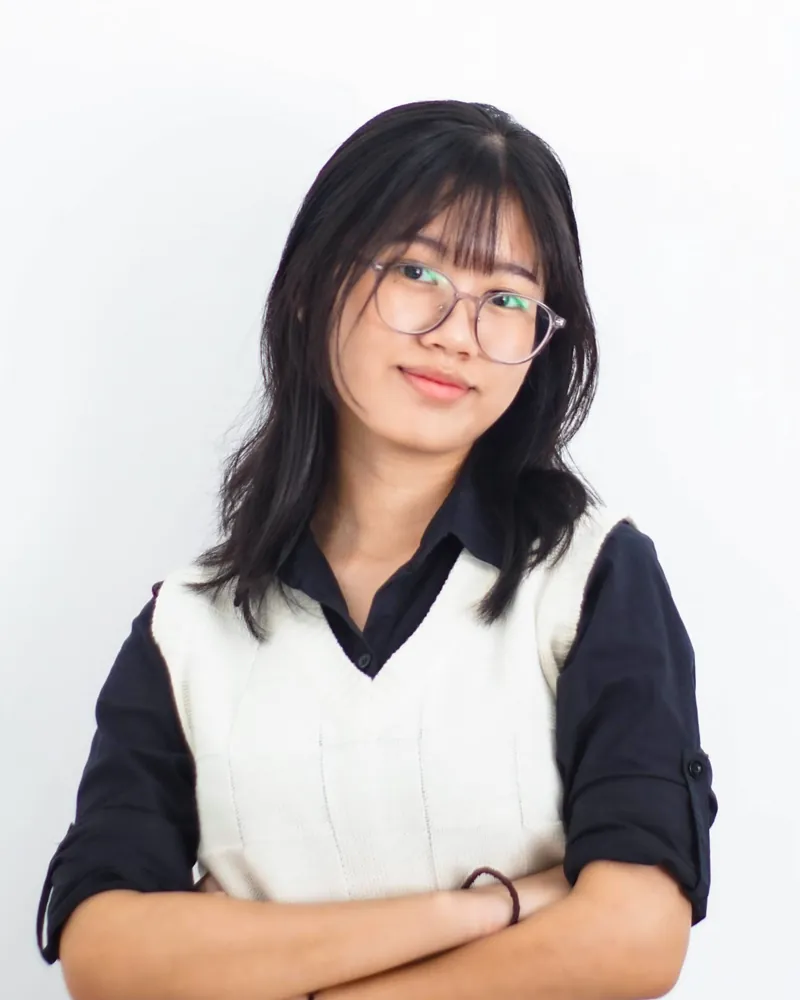
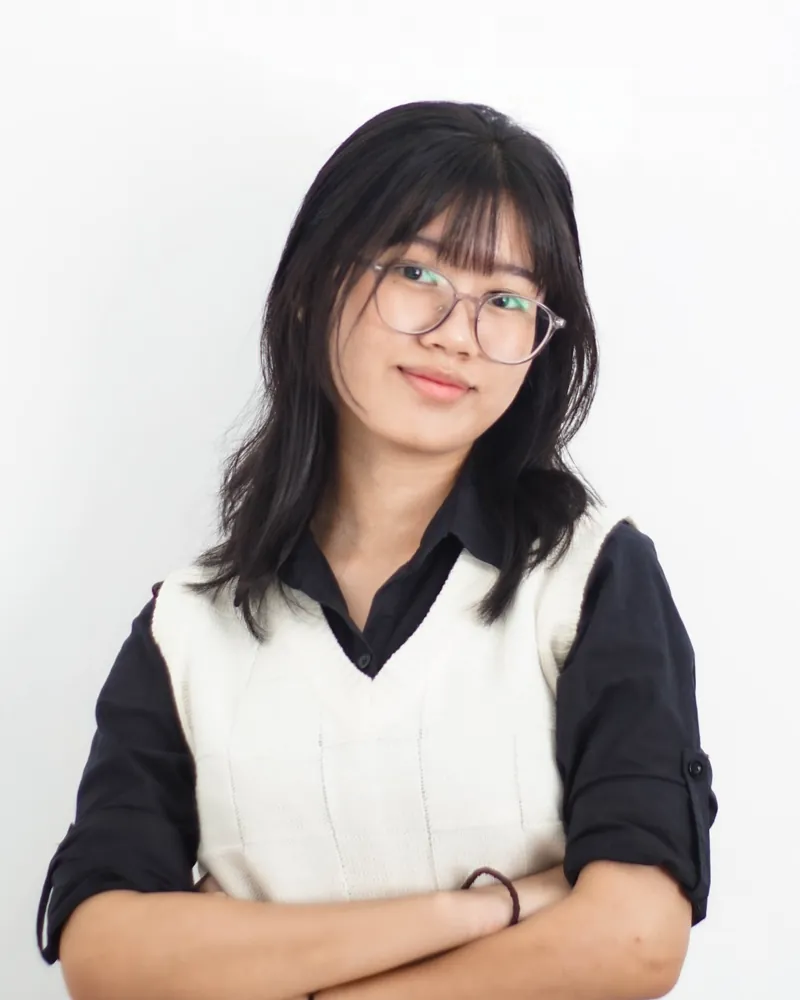
Rename projects, add card showcase, new profile photo

diff --git a/public/index.html b/public/index.html
@@ -84,9 +84,15 @@ nav .btn{min-height:42px;padding:0 18px}
 .filters button[aria-pressed=true] small{color:#dbe2ff}
 .grid{display:grid;grid-template-columns:repeat(3,minmax(0,1fr));gap:20px}
 .slot{border-radius:16px;overflow:hidden;background:var(--card);border:1px solid var(--line);cursor:pointer;text-align:left;padding:0;font:inherit;color:inherit;display:block;width:100%}
-.slot .ph{aspect-ratio:4/3;overflow:hidden;background:var(--line)}
-.slot .ph img{width:100%;height:100%;object-fit:cover;transition:transform .5s cubic-bezier(.2,.7,.2,1)}
-.slot:hover .ph img{transform:scale(1.05)}
+.slot .ph{aspect-ratio:4/3;overflow:hidden;background:var(--line);position:relative}
+.slot .ph img{position:absolute;inset:0;width:100%;height:100%;object-fit:cover;opacity:0;transform:scale(1.06);transition:opacity .9s ease,transform 3.2s ease-out}
+.slot .ph img.on{opacity:1;transform:scale(1)}
+.slot:hover .ph img.on{transform:scale(1.04);transition:opacity .9s ease,transform .6s cubic-bezier(.2,.7,.2,1)}
+.bars{position:absolute;left:12px;right:12px;bottom:10px;display:flex;gap:4px;z-index:2}
+.bars i{flex:1;height:3px;border-radius:2px;background:rgba(255,255,255,.45);overflow:hidden}
+.bars i::after{content:"";display:block;height:100%;width:0;background:#fff}
+.bars i.done::after{width:100%}
+.bars i.run::after{width:100%;transition:width var(--dur,2.8s) linear}
 .slot .meta{padding:14px 16px;display:flex;justify-content:space-between;gap:12px;align-items:center}
 .slot .meta strong{font-size:16px}
 .slot .meta span{font-size:13px;color:var(--soft);white-space:nowrap}
@@ -176,7 +182,7 @@ footer a{text-decoration:none}
  .lbx.prev,.lbx.next{top:auto;bottom:16px;margin:0}
  .thumbs button{width:64px}
 }
-@media(prefers-reduced-motion:reduce){html{scroll-behavior:auto}*{animation:none!important;transition:none!important}.rv{opacity:1;transform:none}}
+@media(prefers-reduced-motion:reduce){.slot .ph img{transform:none}html{scroll-behavior:auto}*{animation:none!important;transition:none!important}.rv{opacity:1;transform:none}}
 </style>
 </head>
 <body>
@@ -336,7 +342,7 @@ footer a{text-decoration:none}
 <script>
 {
  /* Portfolio data: n = name, c = category, i = image files in images/mockups/ (without .webp) */
- const work=[{"n":"Cosmetic Bottle","c":"beauty","i":["cosmetic-bottle-1","cosmetic-bottle-2","cosmetic-bottle-3"]},{"n":"Alcohol Bottle","c":"drinks","i":["alcohol-bottle-1","alcohol-bottle-2","alcohol-bottle-3"]},{"n":"Gable Box","c":"packaging","i":["gable-box-1","gable-box-2","gable-box-3"]},{"n":"Baseball Jersey","c":"apparel","i":["baseball-jersey-1","baseball-jersey-2","baseball-jersey-3"]},{"n":"Book","c":"print","i":["book-1","book-2","book-3"]},{"n":"Cosmetic Bottle 2","c":"beauty","i":["cosmetic-bottle-2-1","cosmetic-bottle-2-2","cosmetic-bottle-2-3"]},{"n":"Alcohol Bottle 2","c":"drinks","i":["alcohol-bottle-2-1","alcohol-bottle-2-2","alcohol-bottle-2-3"]},{"n":"Gift Box","c":"packaging","i":["gift-box-1","gift-box-2","gift-box-3"]},{"n":"Basketball Jersey","c":"apparel","i":["basketball-jersey-1","basketball-jersey-2","basketball-jersey-3"]},{"n":"Book 2","c":"print","i":["book-2-1","book-2-2","book-2-3"]},{"n":"Cosmetic Bottle 3","c":"beauty","i":["cosmetic-bottle-3-1","cosmetic-bottle-3-2","cosmetic-bottle-3-3"]},{"n":"Alcohol Bottle 3","c":"drinks","i":["alcohol-bottle-3-1","alcohol-bottle-3-2","alcohol-bottle-3-3"]},{"n":"Packaging","c":"packaging","i":["packaging-1","packaging-2","packaging-3"]},{"n":"Sports Bag","c":"apparel","i":["sports-bag-1","sports-bag-2","sports-bag-3"]},{"n":"Business Card","c":"print","i":["business-car-1","business-car-2","business-car-3"]},{"n":"Cosmetic Jar","c":"beauty","i":["cosmetic-jar-1","cosmetic-jar-2","cosmetic-jar-3"]},{"n":"Beverage","c":"drinks","i":["beverage-1","beverage-2","beverage-3"]},{"n":"Packaging 2","c":"packaging","i":["packaging-2-1","packaging-2-2","packaging-2-3"]},{"n":"Sports Jacket","c":"apparel","i":["sports-jacket-1","sports-jacket-2","sports-jacket-3"]},{"n":"Business Card 2","c":"print","i":["business-card-2-1","business-card-2-2","business-card-2-3"]},{"n":"Cosmetic Tube","c":"beauty","i":["cosmetic-tube-1","cosmetic-tube-2","cosmetic-tube-3"]},{"n":"Beverage 2","c":"drinks","i":["beverage-2-1","beverage-2-2","beverage-2-3"]},{"n":"Parcel","c":"packaging","i":["parcel-1","parcel-2","parcel-3"]},{"n":"Sports Jacket 2","c":"apparel","i":["sports-jacket-2-1","sports-jacket-2-2","sports-jacket-2-3"]},{"n":"Business Card 3","c":"print","i":["business-card-3-1","business-card-3-2","business-card-3-3"]},{"n":"Cosmetic Tube 2","c":"beauty","i":["cosmetic-tube-2-1","cosmetic-tube-2-2","cosmetic-tube-2-3"]},{"n":"Beverage 3","c":"drinks","i":["beverage-3-1","beverage-3-2","beverage-3-3"]},{"n":"Pizza Box","c":"packaging","i":["pizza-box-1","pizza-box-2","pizza-box-3"]},{"n":"Sports Jersey","c":"apparel","i":["sports-jersey-1","sports-jersey-2","sports-jersey-3"]},{"n":"Business Card 4","c":"print","i":["business-card-4-1","business-card-4-2","business-card-4-3"]},{"n":"Cosmetic Tube 3","c":"beauty","i":["cosmetic-tube-3-1","cosmetic-tube-3-2","cosmetic-tube-3-3"]},{"n":"Beverage Can","c":"drinks","i":["beverage-can-1","beverage-can-2","beverage-can-3"]},{"n":"Suitcase","c":"apparel","i":["suitcase-1","suitcase-2","suitcase-3"]},{"n":"iPhone","c":"print","i":["iphone-1","iphone-2","iphone-3"]},{"n":"Nail Polish Bottle","c":"beauty","i":["nail-polish-bottle-1","nail-polish-bottle-2","nail-polish-bottle-3"]},{"n":"Beverage Can 2","c":"drinks","i":["beverage-can-2-1","beverage-can-2-2","beverage-can-2-3"]},{"n":"T Shirt","c":"apparel","i":["t-shirt-1","t-shirt-2","t-shirt-3"]},{"n":"iPhone 2","c":"print","i":["iphone-2-1","iphone-2-2","iphone-2-3"]},{"n":"Perfume Bottle","c":"beauty","i":["perfume-bottle-1","perfume-bottle-2","perfume-bottle-3"]},{"n":"T Shirt 2","c":"apparel","i":["t-shirt-2-1","t-shirt-2-2","t-shirt-2-3"]},{"n":"iPhone 3","c":"print","i":["iphone-3-1","iphone-3-2","iphone-3-3"]},{"n":"Serum Bottle","c":"beauty","i":["serum-bottle-1","serum-bottle-2","serum-bottle-3"]},{"n":"Tote Bag","c":"apparel","i":["tote-bag-1","tote-bag-2","tote-bag-3"]},{"n":"MacBook","c":"print","i":["macbook-1","macbook-2","macbook-3"]},{"n":"Serum Bottle 2","c":"beauty","i":["serum-bottle-2-1","serum-bottle-2-2","serum-bottle-2-3"]},{"n":"Poster","c":"print","i":["poster-1","poster-2","poster-3"]},{"n":"Serum Bottle 3","c":"beauty","i":["serum-bottle-3-1","serum-bottle-3-2","serum-bottle-3-3"]},{"n":"Poster 2","c":"print","i":["poster-2-1","poster-2-2","poster-2-3"]}];
+ const work=[{"n":"Frosted Glass Cosmetic Bottle","c":"beauty","i":["cosmetic-bottle-1","cosmetic-bottle-2","cosmetic-bottle-3"]},{"n":"Clear Vodka Bottle","c":"drinks","i":["alcohol-bottle-1","alcohol-bottle-2","alcohol-bottle-3"]},{"n":"Gable Box","c":"packaging","i":["gable-box-1","gable-box-2","gable-box-3"]},{"n":"Baseball Jersey","c":"apparel","i":["baseball-jersey-1","baseball-jersey-2","baseball-jersey-3"]},{"n":"Editorial Magazine Book","c":"print","i":["book-1","book-2","book-3"]},{"n":"Glass Serum Bottle","c":"beauty","i":["cosmetic-bottle-2-1","cosmetic-bottle-2-2","cosmetic-bottle-2-3"]},{"n":"Dark Wine Bottle","c":"drinks","i":["alcohol-bottle-2-1","alcohol-bottle-2-2","alcohol-bottle-2-3"]},{"n":"Gift Box","c":"packaging","i":["gift-box-1","gift-box-2","gift-box-3"]},{"n":"Basketball Jersey","c":"apparel","i":["basketball-jersey-1","basketball-jersey-2","basketball-jersey-3"]},{"n":"Magazine on Chair","c":"print","i":["book-2-1","book-2-2","book-2-3"]},{"n":"Amber Pump Bottle","c":"beauty","i":["cosmetic-bottle-3-1","cosmetic-bottle-3-2","cosmetic-bottle-3-3"]},{"n":"Whiskey Bottle","c":"drinks","i":["alcohol-bottle-3-1","alcohol-bottle-3-2","alcohol-bottle-3-3"]},{"n":"Standing Pouch Packaging","c":"packaging","i":["packaging-1","packaging-2","packaging-3"]},{"n":"Sports Duffle Bag","c":"apparel","i":["sports-bag-1","sports-bag-2","sports-bag-3"]},{"n":"Business Card on Plastic Chair","c":"print","i":["business-car-1","business-car-2","business-car-3"]},{"n":"Cosmetic Makeup Jar","c":"beauty","i":["cosmetic-jar-1","cosmetic-jar-2","cosmetic-jar-3"]},{"n":"Iced Coffee","c":"drinks","i":["beverage-1","beverage-2","beverage-3"]},{"n":"Coffee Pouch Packaging","c":"packaging","i":["packaging-2-1","packaging-2-2","packaging-2-3"]},{"n":"Womens Tennis Jacket","c":"apparel","i":["sports-jacket-1","sports-jacket-2","sports-jacket-3"]},{"n":"Editorial Fashion Business Card","c":"print","i":["business-card-2-1","business-card-2-2","business-card-2-3"]},{"n":"Cosmetic Skincare Tube","c":"beauty","i":["cosmetic-tube-1","cosmetic-tube-2","cosmetic-tube-3"]},{"n":"Glass Juice Bottle","c":"drinks","i":["beverage-2-1","beverage-2-2","beverage-2-3"]},{"n":"Parcel","c":"packaging","i":["parcel-1","parcel-2","parcel-3"]},{"n":"Womens Track Jacket","c":"apparel","i":["sports-jacket-2-1","sports-jacket-2-2","sports-jacket-2-3"]},{"n":"Manicured Nails Business Card","c":"print","i":["business-card-3-1","business-card-3-2","business-card-3-3"]},{"n":"Lotion Cream Tube","c":"beauty","i":["cosmetic-tube-2-1","cosmetic-tube-2-2","cosmetic-tube-2-3"]},{"n":"Cold Brew Bottle","c":"drinks","i":["beverage-3-1","beverage-3-2","beverage-3-3"]},{"n":"Pizza Box","c":"packaging","i":["pizza-box-1","pizza-box-2","pizza-box-3"]},{"n":"Mens Jersey","c":"apparel","i":["sports-jersey-1","sports-jersey-2","sports-jersey-3"]},{"n":"Professional Suit Business Card","c":"print","i":["business-card-4-1","business-card-4-2","business-card-4-3"]},{"n":"Tin Cosmetic Tube","c":"beauty","i":["cosmetic-tube-3-1","cosmetic-tube-3-2","cosmetic-tube-3-3"]},{"n":"Outdoor Beverage Can","c":"drinks","i":["beverage-can-1","beverage-can-2","beverage-can-3"]},{"n":"Suitcase","c":"apparel","i":["suitcase-1","suitcase-2","suitcase-3"]},{"n":"iPhone on Denim","c":"print","i":["iphone-1","iphone-2","iphone-3"]},{"n":"Nail Polish Bottle","c":"beauty","i":["nail-polish-bottle-1","nail-polish-bottle-2","nail-polish-bottle-3"]},{"n":"Sleek Beverage Can","c":"drinks","i":["beverage-can-2-1","beverage-can-2-2","beverage-can-2-3"]},{"n":"Womens Oversized T-Shirt","c":"apparel","i":["t-shirt-1","t-shirt-2","t-shirt-3"]},{"n":"iPhone Duo on Wood Table","c":"print","i":["iphone-2-1","iphone-2-2","iphone-2-3"]},{"n":"Perfume Bottle","c":"beauty","i":["perfume-bottle-1","perfume-bottle-2","perfume-bottle-3"]},{"n":"Mens Oversized T-Shirt","c":"apparel","i":["t-shirt-2-1","t-shirt-2-2","t-shirt-2-3"]},{"n":"iPhone on Industrial Stairs","c":"print","i":["iphone-3-1","iphone-3-2","iphone-3-3"]},{"n":"Sleek Premium Serum Dropper Bottle","c":"beauty","i":["serum-bottle-1","serum-bottle-2","serum-bottle-3"]},{"n":"Canvas Tote Bag","c":"apparel","i":["tote-bag-1","tote-bag-2","tote-bag-3"]},{"n":"MacBook on Stool","c":"print","i":["macbook-1","macbook-2","macbook-3"]},{"n":"Amber Serum Bottle","c":"beauty","i":["serum-bottle-2-1","serum-bottle-2-2","serum-bottle-2-3"]},{"n":"Large Editorial Poster","c":"print","i":["poster-1","poster-2","poster-3"]},{"n":"Casual Serum Bottle","c":"beauty","i":["serum-bottle-3-1","serum-bottle-3-2","serum-bottle-3-3"]},{"n":"Poster Flyers","c":"print","i":["poster-2-1","poster-2-2","poster-2-3"]}];
  const cats=[['all','All'],['beauty','Beauty'],['drinks','Drinks'],['packaging','Packaging'],['apparel','Apparel & bags'],['print','Print & devices']];
  const catName=Object.fromEntries(cats);
  const esc=s=>String(s).replace(/[&<>"']/g,m=>({'&':'&amp;','<':'&lt;','>':'&gt;','"':'&quot;',"'":'&#39;'}[m]));
@@ -349,11 +355,24 @@ footer a{text-decoration:none}
   return `<button type="button" data-f="${k}" aria-pressed="${k==='all'}">${esc(l)}<small>${n}</small></button>`}).join('');
 
  const render=(from=0)=>{
+  if(!from&&visIO){visIO.disconnect();live.clear()}
   list=work.filter(w=>cur==='all'||w.c===cur);
-  const html=list.slice(from,shown).map((w,k)=>`<button type="button" class="slot" data-n="${from+k}" style="--i:${k}"><div class="ph"><img src="${src(w.i[0])}" alt="${esc(w.n)} mockup" loading="lazy" width="1200" height="902"></div><div class="meta"><strong>${esc(w.n)}</strong><span>${esc(catName[w.c])} · ${w.i.length} shots</span></div></button>`).join('');
+  const html=list.slice(from,shown).map((w,k)=>`<button type="button" class="slot" data-n="${from+k}" style="--i:${k}"><div class="ph">${w.i.map((f,j)=>`<img ${j?'data-src':'src'}="${src(f)}" alt="${esc(w.n)} mockup, shot ${j+1}" ${j?'':'class="on"'} loading="lazy" width="1200" height="900">`).join('')}<div class="bars" aria-hidden="true">${w.i.map(()=>'<i></i>').join('')}</div></div><div class="meta"><strong>${esc(w.n)}</strong><span>${esc(catName[w.c])}</span></div></button>`).join('');
+  grid.querySelectorAll('.slot:not([data-show])').forEach(watch);
   if(from)grid.insertAdjacentHTML('beforeend',html);else grid.innerHTML=html;
   moreBtn.parentElement.style.display=shown<list.length?'':'none';
  };
+ /* Showcase: each visible card cycles through all its shots */
+ const DUR=2800,live=new Set();
+ const visIO='IntersectionObserver' in window?new IntersectionObserver(es=>es.forEach(e=>{const c=e.target;
+   if(e.isIntersecting){c.querySelectorAll('img[data-src]').forEach(i=>{i.src=i.dataset.src;i.removeAttribute('data-src')});live.add(c);if(!c._t)c._t=setTimeout(()=>{c._t=null;startBar(c)},(+c.dataset.off||0)%3*450)}else live.delete(c)}),{threshold:.35}):null;
+ function startBar(c){const bars=c.querySelectorAll('.bars i'),k=+c.dataset.k||0;
+  bars.forEach((b,j)=>{b.classList.toggle('done',j<k);b.classList.remove('run')});
+  if(rm||!bars[k])return;void bars[k].offsetWidth;bars[k].style.setProperty('--dur',DUR+'ms');bars[k].classList.add('run');
+  c._t=setTimeout(()=>{c._t=null;if(!c.isConnected||!live.has(c))return;if(c.matches(':hover')){startBar(c);return}step2(c)},DUR)}
+ function step2(c){const imgs=c.querySelectorAll('.ph img');let k=((+c.dataset.k||0)+1)%imgs.length;c.dataset.k=k;
+  imgs.forEach((im,j)=>im.classList.toggle('on',j===k));startBar(c)}
+ function watch(c,j){c.dataset.show='1';c.dataset.k=0;c.dataset.off=j;if(visIO)visIO.observe(c)}
  render();
  moreBtn.addEventListener('click',()=>{const f=shown;shown+=STEP;render(f)});
  filters.addEventListener('click',e=>{
@@ -375,7 +394,7 @@ footer a{text-decoration:none}
  const close=()=>{lb.classList.remove('open');document.body.classList.remove('lock');last&&last.focus()};
  const step=d=>{const w=list[p];s+=d;
   if(s>=w.i.length){p=(p+1)%list.length;s=0}else if(s<0){p=(p-1+list.length)%list.length;s=list[p].i.length-1}show()};
- grid.addEventListener('click',e=>{const b=e.target.closest('.slot');if(b)open(+b.dataset.n)});
+ grid.addEventListener('click',e=>{const b=e.target.closest('.slot');if(b){open(+b.dataset.n);s=+b.dataset.k||0;show()}});
  lbThumbs.addEventListener('click',e=>{const b=e.target.closest('button');if(b){s=+b.dataset.s;show()}});
  document.getElementById('lbClose').addEventListener('click',close);
  document.getElementById('lbPrev').addEventListener('click',()=>step(-1));
